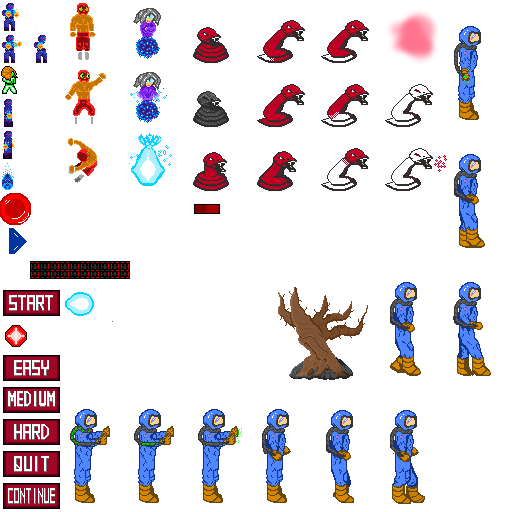
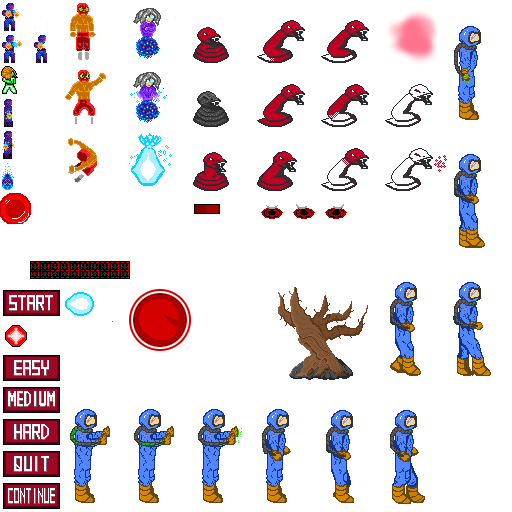
Se agrego un joystick virtual para representar los inputs y se actualizo el sprite del boton de ataque.

Changed region(s): [[0.25, 0.5625, 0.375, 0.6875], [0.5, 0.4062, 0.6875, 0.4375], [0.0, 0.4375, 0.0625, 0.5]]

diff --git a/app/src/main/java/com/jgame/game/GameRenderer.java b/app/src/main/java/com/jgame/game/GameRenderer.java
@@ -8,6 +8,7 @@ import android.util.Log;
 
 import com.jgame.elements.GameCharacter;
 import com.jgame.elements.CollisionObject;
+import com.jgame.elements.MainCharacter;
 import com.jgame.util.DigitsDisplay;
 import com.jgame.util.GameText;
 import com.jgame.util.SimpleDrawer;
@@ -33,6 +34,9 @@ public class GameRenderer implements Renderer {
     public final static ColorData DASHBOARD_COLOR = new ColorData(0.0664f,0.1367f,0.16f,1);
     public final static ColorData NON_HIGHLIGHT = new ColorData(1,1,1,0.45f);
     public final static ColorData BACKGROUND_OVERLAY = new ColorData(1,1,1,0.6f);
+    public final static TextureData NEUTRAL_JOYSTICK_TEX = new TextureData(0.5f,0.375f,0.5625f,0.4375f);
+    public final static TextureData LEFT_JOYSTICK_TEX = new TextureData(0.5625f,0.375f,0.625f,0.4375f);
+    public final static TextureData RIGHT_JOYSTICK_TEX = new TextureData(0.625f,0.375f,0.6875f,0.4375f);;
     public final static TextureData SCORE_LABEL_TEX = new TextureData(0.125f, 0.6875f, 0.25f, 0.75f);
     public final static TextureData ATTACK_LABEL_TEX = new TextureData(0.125f, 0.625f, 0.25f, 0.6875f);
     public final static TextureData CONTINUE_BUTTON = new TextureData(0f,1.9375f,0.125f,2f);
@@ -41,10 +45,10 @@ public class GameRenderer implements Renderer {
     public final static TextureData NO_TEXTURE_COORDS = new TextureData(0.96875f,0.96875f,1.0f,1.0f);
     public final static TextureData SPEAKER_TEXTURE = new TextureData(0.4375f, 0.375f, 0.5f, 0.4375f);
     public final static TextureData SOUND_TEXTURE = new TextureData(0.4375f,0.4375f,0.5f,0.5f);
-    public final static TextureData BUTTON_TEXTURE = TextureDrawer.genTextureData(1.0f,7.05f,16);
+    public final static TextureData BUTTON_TEXTURE = new TextureData(0.25f, 0.5625f, 0.375f, 0.6875f);
     public final static TextureData ARROW_TEXTURE = TextureDrawer.genTextureData(1.0f,8.05f,16);
     public final static TextureData START_BUTTON_TEXTURE = new TextureData(0, 0.5625f, 0.125f, 0.625f);
-    public final static TextureData LEFT_ARROW_TEXTURE = new TextureData(0.0625f,0.5f,0,0.4375f);
+    public final static TextureData LEFT_ARROW_TEXTURE = new TextureData(0.0625f,0.5f,0,0.4372f);
     public final static TextureData SOUND_SWITCH_ON_TEXTURE = new TextureData(0.375f,0.375f,0.4375f,0.4375f);
     public final static TextureData SOUND_SWITCH_OFF_TEXTURE = new TextureData(0.4375f,0.4375f,0.375f,0.375f);
     public final static TextureData EASY_SPRITE = new TextureData(0f,0.6875f,0.125f,0.75f);
@@ -63,6 +67,7 @@ public class GameRenderer implements Renderer {
     public static final GameText SOUND_LABEL = new GameText("sound", new Square(160, 85, 150, 35), 0);
     public static final GameText ON_LABEL = new GameText("on", new Square(160, 50, 50, 20), 20);
     public static final GameText OFF_LABEL = new GameText("off", new Square(260, 50, 50, 20), 20);
+    public static final Square JOYSTICK_BOUNDS = new Square(35, GameActivity.INPUT_LEFT_BOUNDS.position.y - 5, 75, 75);
     public static final Square SOUND_SWITCH_SPRITE = new Square(210, 40, 50, 50);
     public static final Square SCORE_LABEL_BOUNDS = new Square(195, 40, SCORE_SIZE_X * SCORE_LEDS, SCORE_SIZE_Y);
     public static final Square ATTACK_LABEL_BOUNDS = new Square(GameActivity.INPUT_A_BOUNDS.position.x + 70, 40, SCORE_LABEL_BOUNDS.lenX, SCORE_LABEL_BOUNDS.lenY);
@@ -216,6 +221,16 @@ public class GameRenderer implements Renderer {
             mainTextureDrawer.addTexturedSquare(SCORE_LABEL_BOUNDS, SCORE_LABEL_TEX);
             mainTextureDrawer.addTexturedSquare(ATTACK_LABEL_BOUNDS, ATTACK_LABEL_TEX);
 
+            CURRENT_SCORE.number = gameData.score;
+            CURRENT_SCORE.addDigitsTexture(mainTextureDrawer);
+
+            if(gameActivity.mainCharacter.state == MainCharacter.CharacterState.MOVING_FORWARD)
+                mainTextureDrawer.addTexturedSquare(JOYSTICK_BOUNDS, RIGHT_JOYSTICK_TEX);
+            else if(gameActivity.mainCharacter.state == MainCharacter.CharacterState.MOVING_BACKWARDS)
+                mainTextureDrawer.addTexturedSquare(JOYSTICK_BOUNDS, LEFT_JOYSTICK_TEX);
+            else
+                mainTextureDrawer.addTexturedSquare(JOYSTICK_BOUNDS, NEUTRAL_JOYSTICK_TEX);
+
             if (RENDER_HITBOXES) {
                 renderHitBoxes(gameActivity.mainCharacter, mainTextureDrawer);
                 mainTextureDrawer.addColoredSquare(GameActivity.INPUT_LEFT_BOUNDS, NO_TEXTURE_COORDS, ATTACK_COLOR);
@@ -223,10 +238,6 @@ public class GameRenderer implements Renderer {
                 mainTextureDrawer.addColoredSquare(GameActivity.INPUT_A_BOUNDS, NO_TEXTURE_COORDS, ATTACK_COLOR);
             }
 
-            if (characterAlive) {
-                CURRENT_SCORE.number = gameData.score;
-                CURRENT_SCORE.addDigitsTexture(mainTextureDrawer);
-            }
 
             if (gameData.state == GameState.RESTART_SCREEN) {
                 mainTextureDrawer.addTexturedSquare(GameActivity.RESTART_BOUNDS, CONTINUE_BUTTON);
